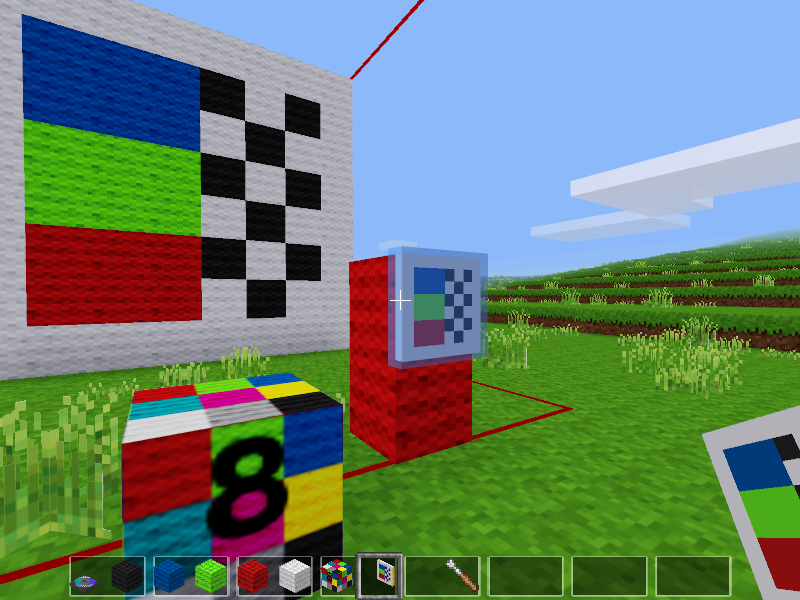
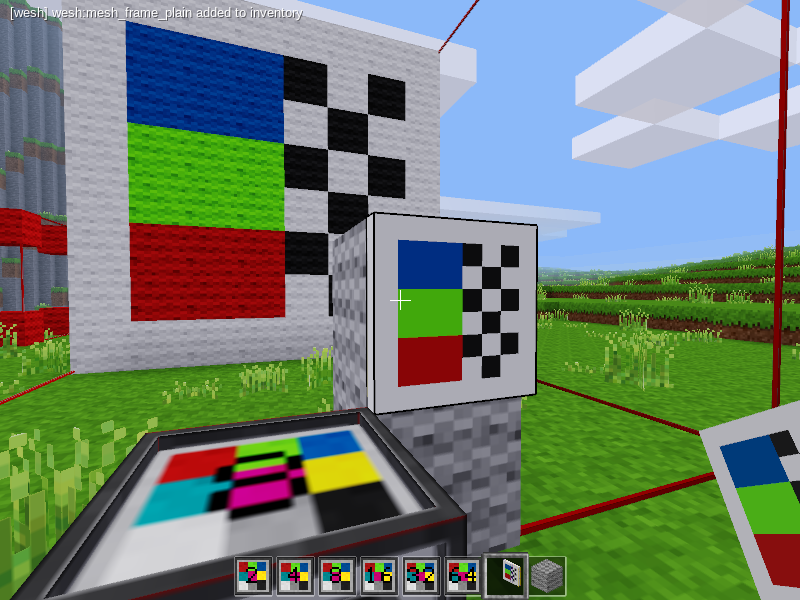
Added in-game mesh management and new priv to limit deletions to trusted players

diff --git a/README.md b/README.md
@@ -1,4 +1,5 @@
 # Woolen Meshes (wesh)
+
 An in-game mesh creator for Minetest
 
 Developed and tested on Minetest 0.4.16 - try in other versions at your own risk :)
@@ -11,11 +12,11 @@ WIP MOD forum thread: https://forum.minetest.net/viewtopic.php?f=9&t=20115
 
     W = any wool block
     I = inner ingredient (see list below)
-    
+
     WWW
     WIW
     WWW
-    
+
     wesh:canvas02 (steel ingot)
     wesh:canvas04 (copper ingot)
     wesh:canvas08 (tin ingot)
@@ -33,13 +34,14 @@ This has been added to the mod just to let everybody (in particular the devs, if
 
 
 # How to use
+
 Place down a Canvas block, you'll see that it extends beyond its node space marking a cube (available in sizes 2, 4, 8, 16 and 32)
 
-The following screenshots show the old texture of the canvas (the one and only 16x16x16) now replaced by a new texture marked 16 just like the ones you can here below:
+The following screenshots shows a sample of how the canvases look when placed in the world (you can read the size on the top face), held in hand and in the quickbar (last slot):
 
 ![Canvas sizes](/screenshots/canvas-sizes.png)
 
-So here is the example using the canvas with size 16 marking its capture space:
+Here is the example using the canvas with size 16 marking its capture space:
 
 ![Empty canvas](/screenshots/canvas-empty.png)
 
@@ -47,20 +49,24 @@ In this space you can build anything you like by using colored wool blocks or mo
 
 ![Building inside the canvas](/screenshots/canvas-build.png)
 
-Once you're done with your build, go to the Canvas block and right click it: you'll be asked to provide a name for your mesh (you can type any text in there, with uppercases and any symbol):
+Once you're done with your build, go to the Canvas block and right click it: you'll be asked to provide a name for your mesh (you can type any text in there, with uppercases and any symbol).
+
+Here you can also decide whether or not to generate a backup matrix and you can specify what variants you want your mesh to be available in.
+
+Backup matrices are additional files that record your build's colors. The mod doesn't use them as of now, and even if it did, it would only allow you to rebuild your creation using wool blocks. These files can be safely omitted if you're not worried about rebuilding your creations (that is, if you don't dismantle them or if you don't care about recapturing them).
+
+This capture interface also gives you access to the `Manage Meshes` and the `Giveme Meshes` interfaces, which will be covered later on in this documentation:
 
 ![Request for name](/screenshots/prompt-name.png)
 
-When you confirm such name (you can cancel it by hitting the ESC key) you'll likely get a confirmation like this:
+When you confirm the name for your capture (you can cancel it by hitting the ESC key) you'll get a confirmation in the chat:
 
 ![Save confirmation](/screenshots/save-confirm.png)
 
-If you confirm the name by hitting ENTER you may not be presented with the above confirmation. It will appear in the chat as well just in case.
-
-Upon saving a few temporary files will be created in the `/mod_storage/wesh` subfolder in your world's folder:
+Upon saving a few temporary files will be created in the `/mod_storage/wesh_temp_obj_files` subfolder in your world's folder:
 - the `.obj` file will contain a model with your build scaled down to fit exactly one block
 - the `.obj.dat` file will contain the original name you have chosen for your mesh, along with some other data (read the section about using custom textures below)
-- the `.obj.matrix.dat` file will contain a serialized version of your build, that may eventually get used to rebuild / reimport it in the game allowing you to alter it (right now you can't import them, so make sure you don't dismantle your build if you want to alter and capture it again)
+- if you have selected the `Generate backup matrix`, you'll also find a `.obj.matrix.dat` file which will contain a serialized version of your build, that may eventually get used to rebuild / reimport it in the game allowing you to alter it (as mentioned above, right now you can't import them and it only records your build's colors, so make sure you don't dismantle your build if you want to alter and capture it again)
 
 The above files are saved there only temporarily because mods don't have writing permission in their own folder while the world is running. In order to use your new meshes in the game you need to restart the world.
 
@@ -68,33 +74,74 @@ During world startup the mod will move all the temporary files to the `/models` 
 
 You can't have two meshes with the same name (during the saving process the mod checks both the temporary meshes that haven't been loaded yet and those that have been already moved to the mod's folder).
 
-If you want to delete a mesh you need to delete its files from either the world's folder (if you haven't restarted it since you captured the mesh you want to delete) or from the mod's folder (if such mesh has been already moved by a world reload).
+By default, four versions of each mesh will be available (which you can toggle in the interface for each capture):
 
-By default, four versions of each mesh will be available:
 - plain versions: they use flat colors averaged from the colors of each wool block, with a bordered variant
+
 ![Plain version](/screenshots/version-plain.png)
+
 ![Plain bordered compare](/screenshots/plain-bordered-compare.png)
 
 - wool versions: they will use the actual textures used by the wool blocks, with a bordered variant
+
 ![Wool version](/screenshots/version-wool.png)
+
 ![Wool bordered compare](/screenshots/wool-bordered-compare.png)
 
 Sample of natural terrain capture:
+
 ![Non wool capture](/screenshots/non-wool-capture.png)
 
 Collision boxes will be built automatically depending on the extent of your mesh:
+
 ![Auto collision box](/screenshots/auto-collision-box.png)
 
-Up to 8 collision boxes will be created according to the mesh geometry allowing you to create stairs, slabs, frames, carpets and so forth, collision boxes will be merged into larger ones when fitting.
+Up to 8 collision boxes will be created according to the mesh geometry allowing you to create stairs, slabs, frames, carpets and so forth, collision boxes will be merged into larger ones when fitting:
 
-Such new blocks can't be crafted (I plan to make sort of a crafting station where you put some material and chose the model you want to craft), so you either need to give them to yourself or to find them in the Creative inventory. All such meshes show up if you filter for either `wesh` or `mesh`.
+![Auto collision box 2](/screenshots/auto-collision-box-2.png)
+
+Such new blocks can't be crafted but you can obtain as many as you want by clicking on the "Giveme Meshes" button of the capture interface, which will show you something like this (remember that you need to restart the world for new meshes to appear there):
+
+![Giveme mesh](/screenshots/giveme-mesh.png)
+
+The above names can be used with the `/give` and `/giveme` commands as well
+
+If you're playing in creative mode all such meshes, including all canvases, show up if you filter for either `wesh` or `mesh`:
 
 ![Creative search](/screenshots/creative-search.png)
 
-Looking at the filename (or knowing how the name gets converted) you can also work out the actual nodename to be used in your `/give` or `/giveme` chat command, for example:
-- chosen name: `Test One!`
-- resulting filename: `mesh_test_one.obj`
-- resulting nodename: `wesh:mesh_test_one_VERSION` where `VERSION` will actually be something like `wool` or `plainborder` or whatever other variant has been enabled (see the following section for details about this)
+# Privileges
+
+Three separate privileges are available:
+- `wesh_capture` limits the ability to create new meshes
+- `wesh_place` limits the ability to place created meshes in the world
+- `wesh_delete` limits the ability to delete meshes from disk
+
+All of those privileges are granted to `singleplayer` by default.
+
+Since canvases can be crafted and since the canvas interface allows players to get meshes for free, creative mode isn't necessary in order to use this mod.
+
+# Managing Meshes
+
+Temporary meshes (the ones captured in the current playing session, waiting to be moved to the mod's folder) can be deleted right away from "Manage meshes" interface: *there will be NO confirmation when deleting temporary captures!*
+
+![Delete temporary now](/screenshots/delete-temporary-now.png)
+
+Meshes that have already been moved to the mod's folder can't be deleted right away and need to be marked for deletion:
+
+![Mark for deletion](/screenshots/mark-for-deletion.png)
+
+Pending deletions can be canceled:
+
+![Cancel pending deletion](/screenshots/cancel-pending-deletion.png)
+
+## Deletions when playing on multiple worlds
+
+When meshes get marked for deletion that information will go into the mod's storage _associated to that specific world_ - this means that in order for deletions to happen you need to exit the world and enter _the same world again_.
+
+Those deletions will not be performed until you enter _that_ world again.
+
+All meshes will be finally stored in the mod's folder - this means that _all_ worlds will end up sharing the _same_ meshes. If you delete any mesh in a world it will disappear for all worlds.
 
 # Specifying custom properties
 In the `.obj.dat` file of each mesh you'll find something like this:
@@ -111,9 +158,15 @@ In the `.obj.dat` file of each mesh you'll find something like this:
 
 (please consider that the number `16` here above indicates the size of the texture, it has nothing to do with the size of the canvas you use to capture your build)
 
+The variants used in each `.obj.dat` file depend on the ones you select in the interface at capture time.
+
 Default variants are stored in the file [default.nodevariants.lua](/default.nodevariants.lua) which gets copied over to `nodevariants.lua` when starting up the mod if no such file exists.
 
-In order to add a new variant simply add a line with your texture name and make sure you save such texture file in the `/textures` folder of the mod. You can also remove the lines you're not interested in and the mod will not generate those variants. You can do this operation either on the `nodevariants.lua` file (it will affect all new captures) or in the `.obj.dat` file associated to each mesh (will affect only that mesh).
+Those variants will be the ones shown in the capture interface.
+
+In order to add a new variant simply add a line with your texture name and make sure you save such texture file in the `/textures` folder of the mod. You can also remove the lines you're not interested in and the mod will not generate those variants.
+
+You can do the above operation either on the `nodevariants.lua` file (it will affect all new captures) or in the `.obj.dat` file associated to each mesh (will affect only that mesh).
 
 For example, here we remove all but the `plain` version and add a custom one:
 
@@ -125,12 +178,14 @@ For example, here we remove all but the `plain` version and add a custom one:
         },
     }
 
+The above doesn't depend on variants available in `nodevariants.lua` - as long as you're using a different key name and an existing texture file you'll be fine.
+
 Have a look at `wool-72.png` to see where each color goes, or use the included [textures-72.xcf](/textures/textures-72.xcf) file (GIMP format) which has layers for adding the borders as well.
 
 You can as well override any property you would normally pass to node_register(), such as `walkable`, `groups`, `collision_box`, `selection_box` and so forth. The only property that doesn't get really overridden but just _mangled_ according to the variants is the `description` one. You shouldn't even be overriding `tiles` cause they will be built according to the `variants` property (property which is specific to this mod's `.obj.dat` files).
 
 A couple considerations:
-- the bottom-right transparent area never gets used
+- the bottom-right transparent area is never used
 - the used texture for each face will actually be a bit smaller (in the `wool-72.png` file the squares are 18 pixels in side, but the texture will only use a 16x16 square inside of it)
 - you're not forced to use any particular size for your texture as long as it's square (I guess, let me know if you find any problems)
 
